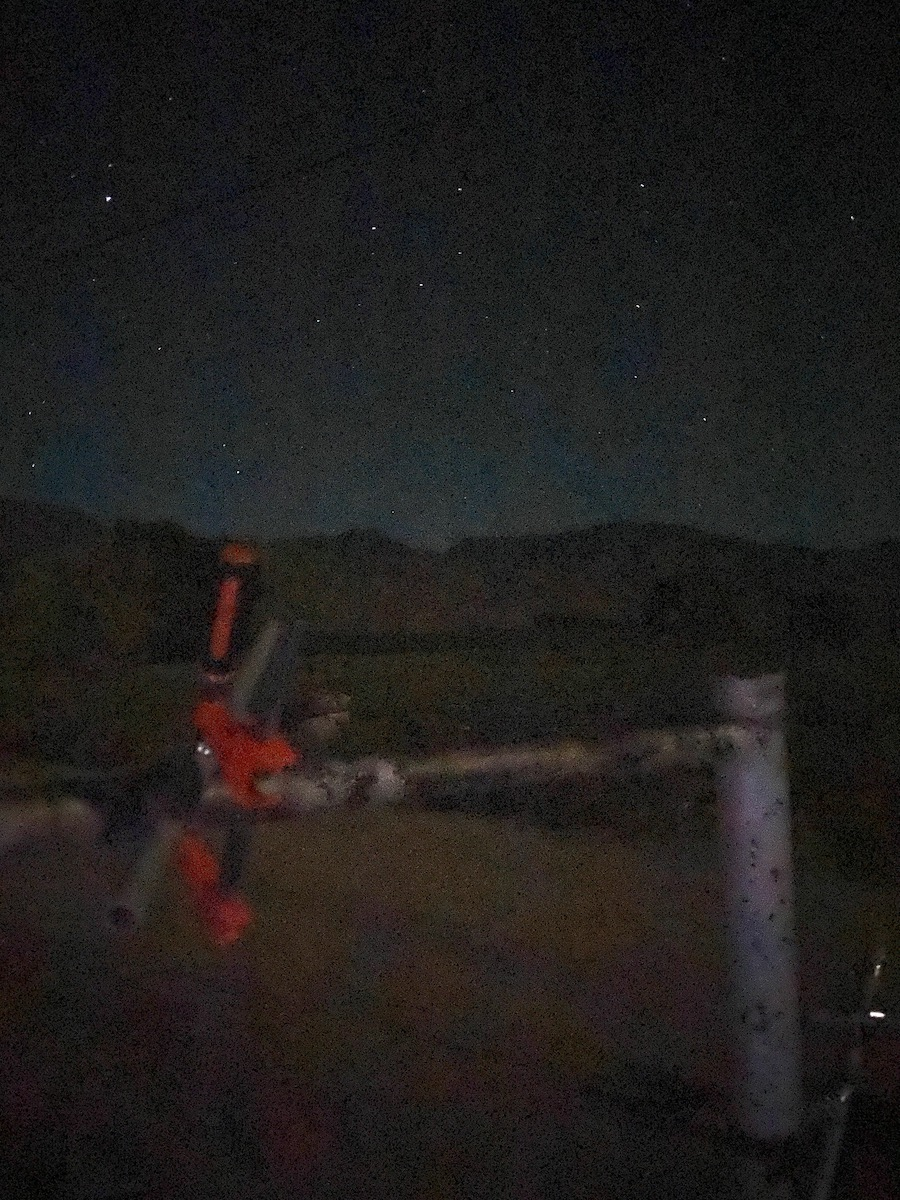
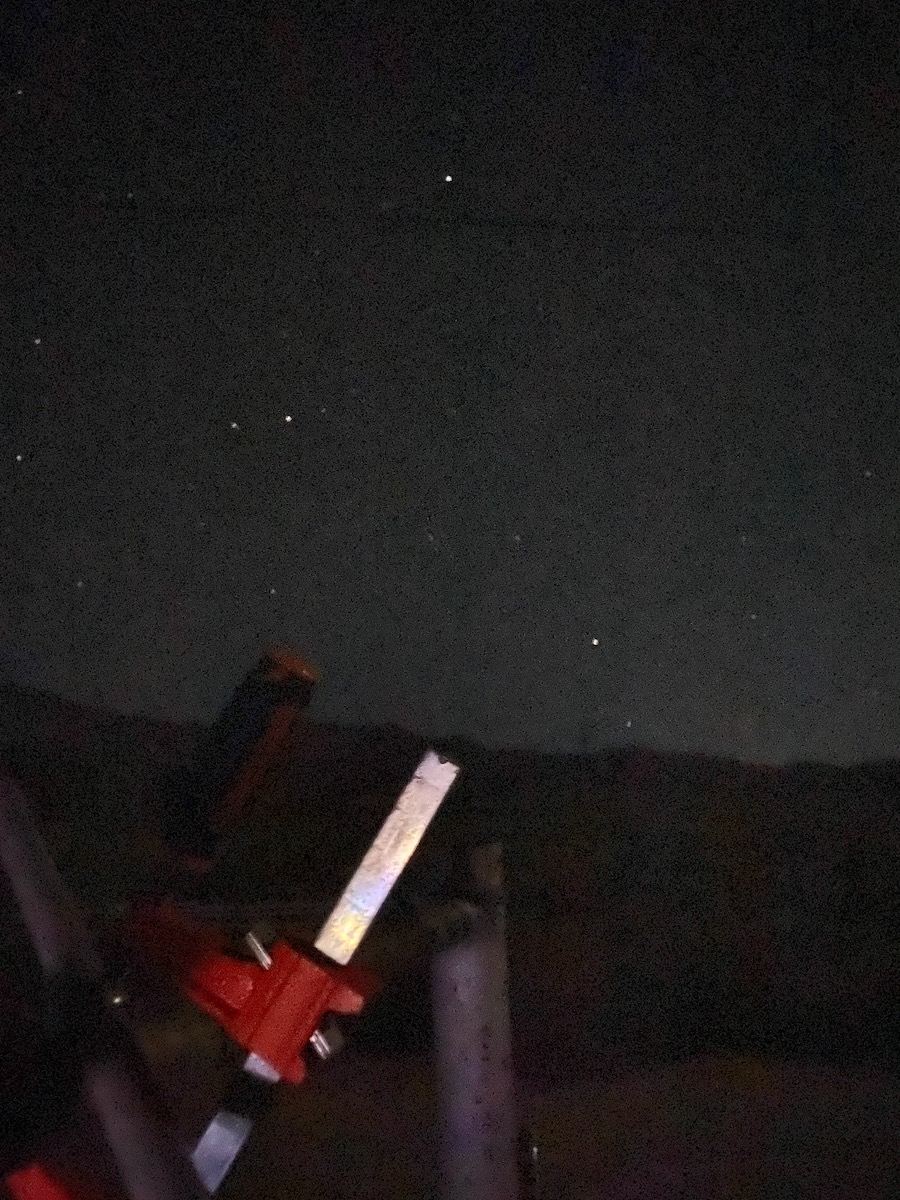
Trying to organize four photos of dioptras.

diff --git a/assignments/presentation_notes-2023-09-07.md b/assignments/presentation_notes-2023-09-07.md
@@ -55,10 +55,17 @@ Lovely drawings of the sky when facing the direction of Henderson of sky at 9pm 
 
 Demonstration of use of dioptra (pointed at Mizar) and compound dioptra (pointed at Polaris and Jupiter).
 
-![alt text](./Dioptra1.jpeg)
+Dioptra pointed at Mizar
 
-![alt text](./Dioptra2.jpeg)
+![A very faint picture of a tube oriented to point at Mizar](./Dioptra1.jpeg)
 
-![alt text](./Dioptra3.jpeg)
+Compound dioptra with primary tube pointed at Polaris and secondary tube pointed at Jupiter rising in the east
+
+![A reddish and faint picture of a compound dioptra with Jupiter shining brightly in the east](./Dioptra2.jpeg)
+
+The same region of sky as Jupiter was in &mdash; now the Moon, the Hyades, and the Pleiades dominate the eastern sky and Jupiter has gone out of frame to the SE
+
+![A bright moon, Hyades, and the Pleiades rising in the east over telephone poles and telephone wires](./Dioptra3.jpeg)
 
 ![alt text](./Dioptra4.jpeg)
+
